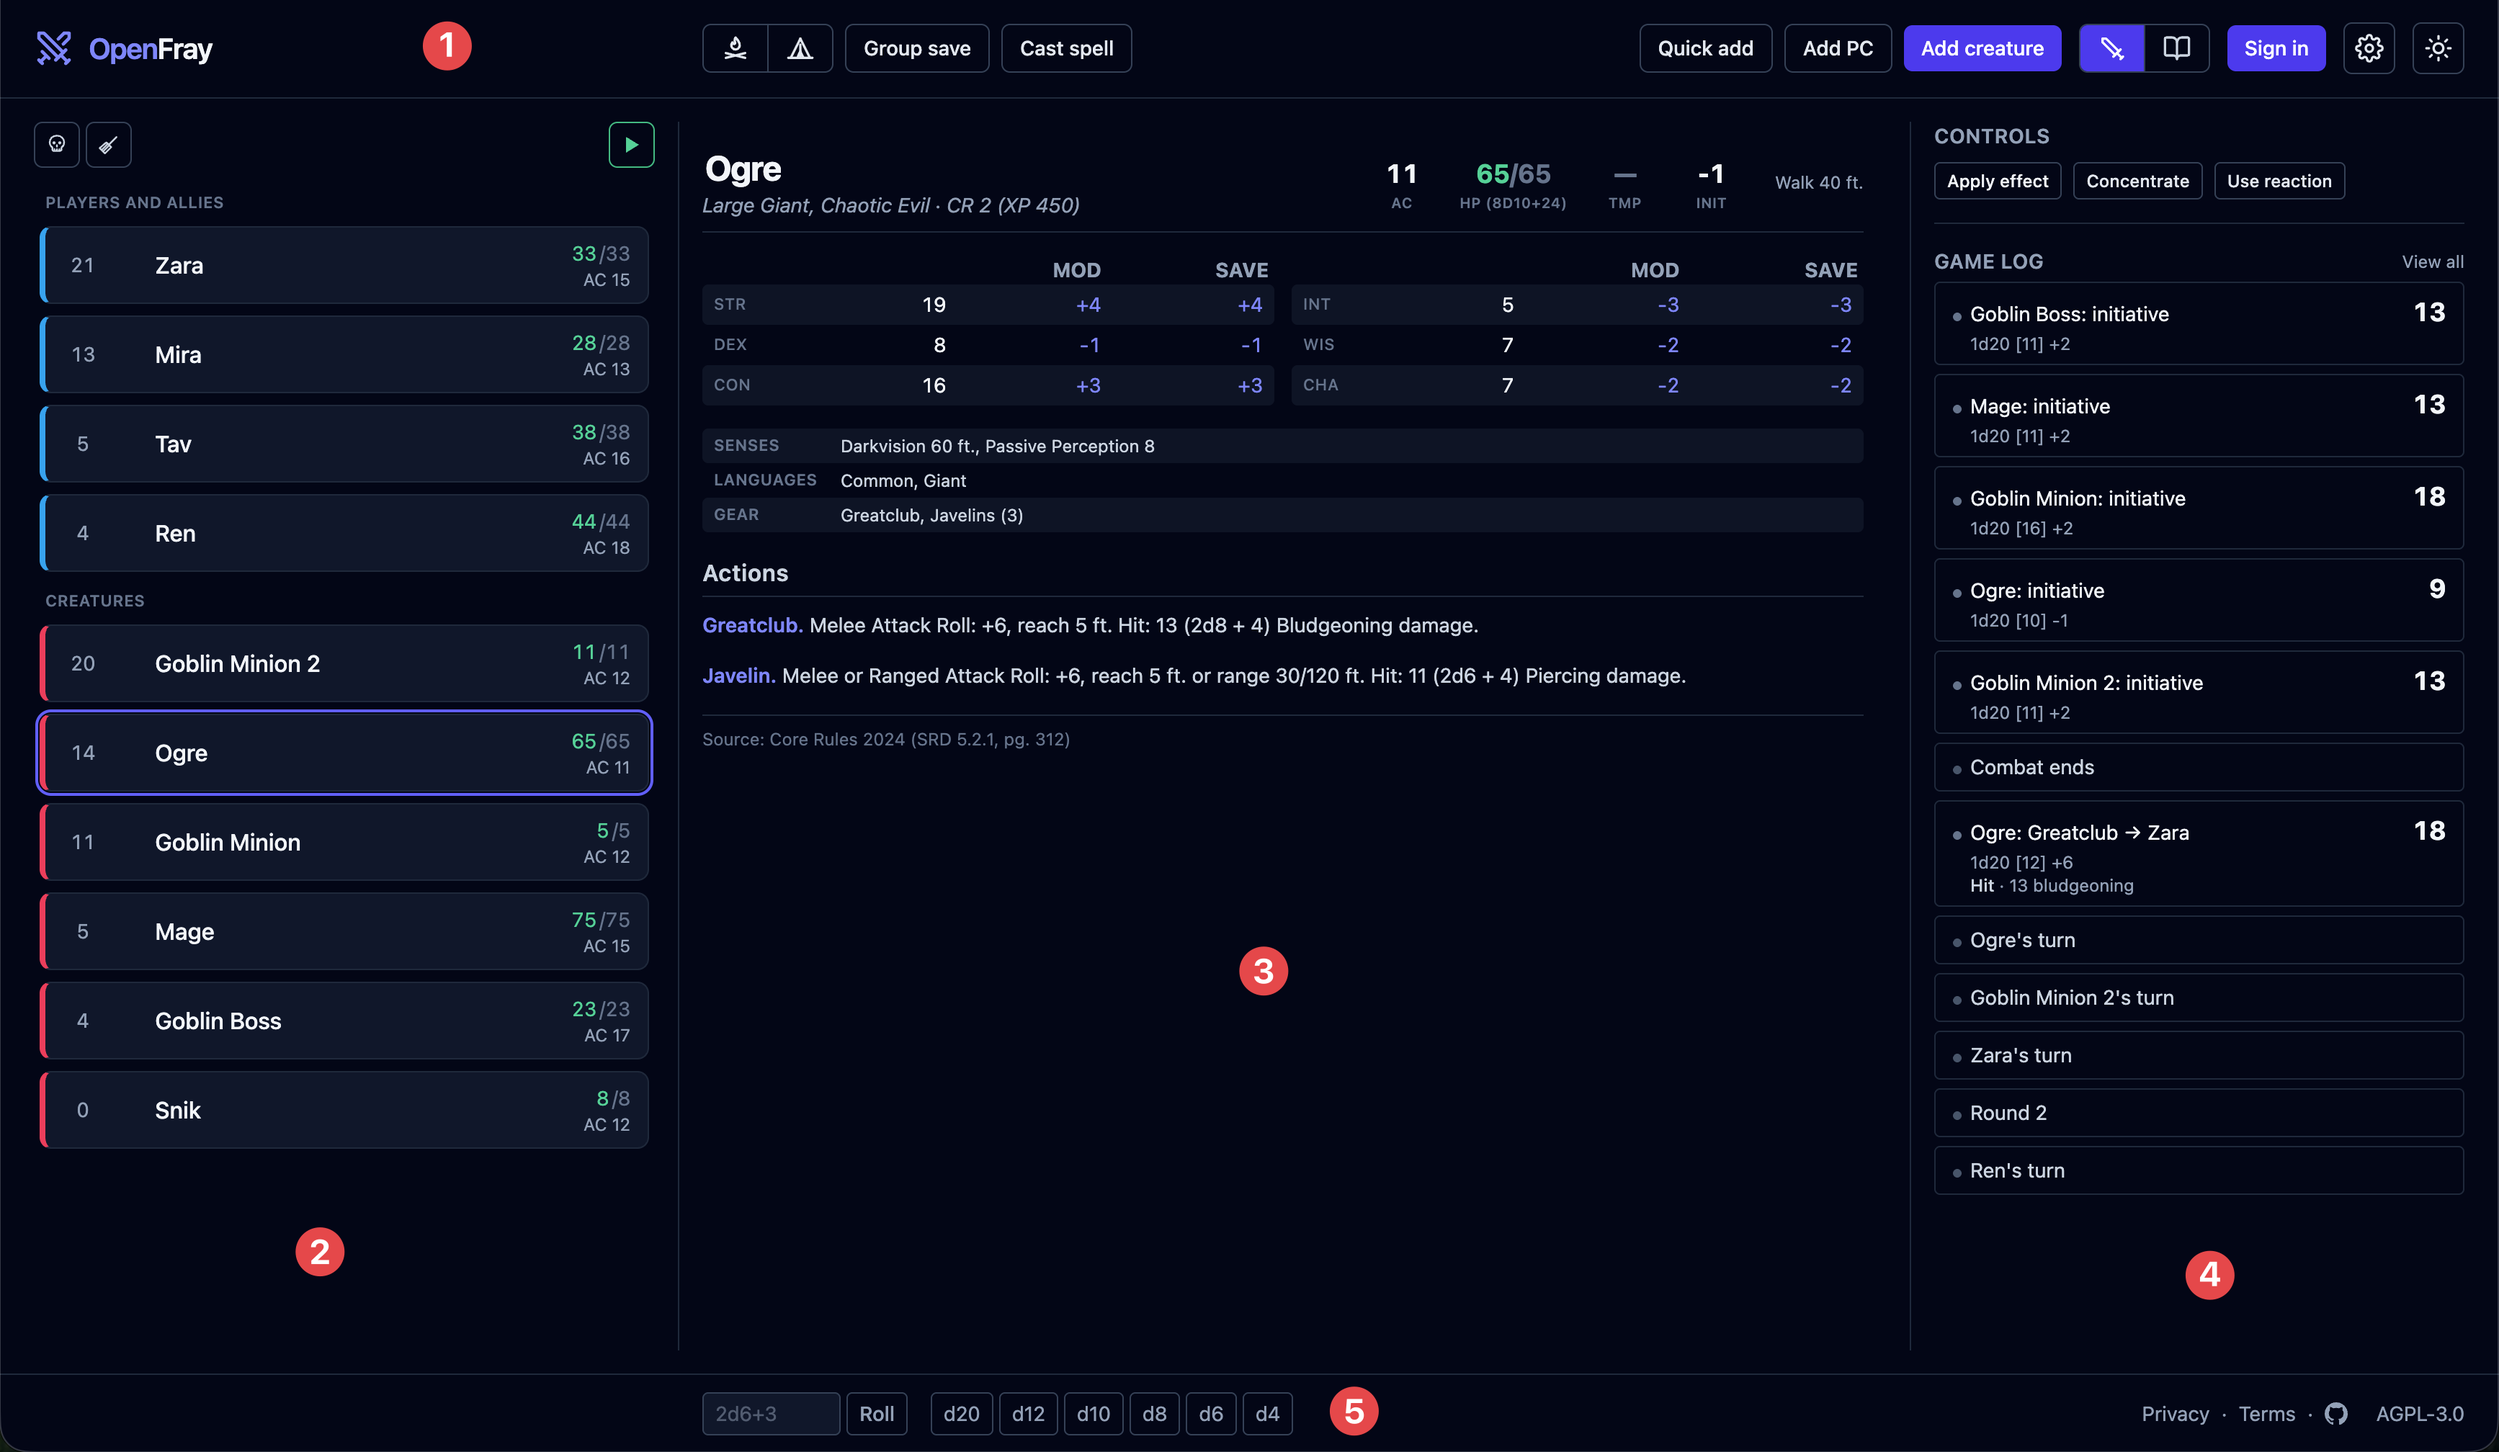
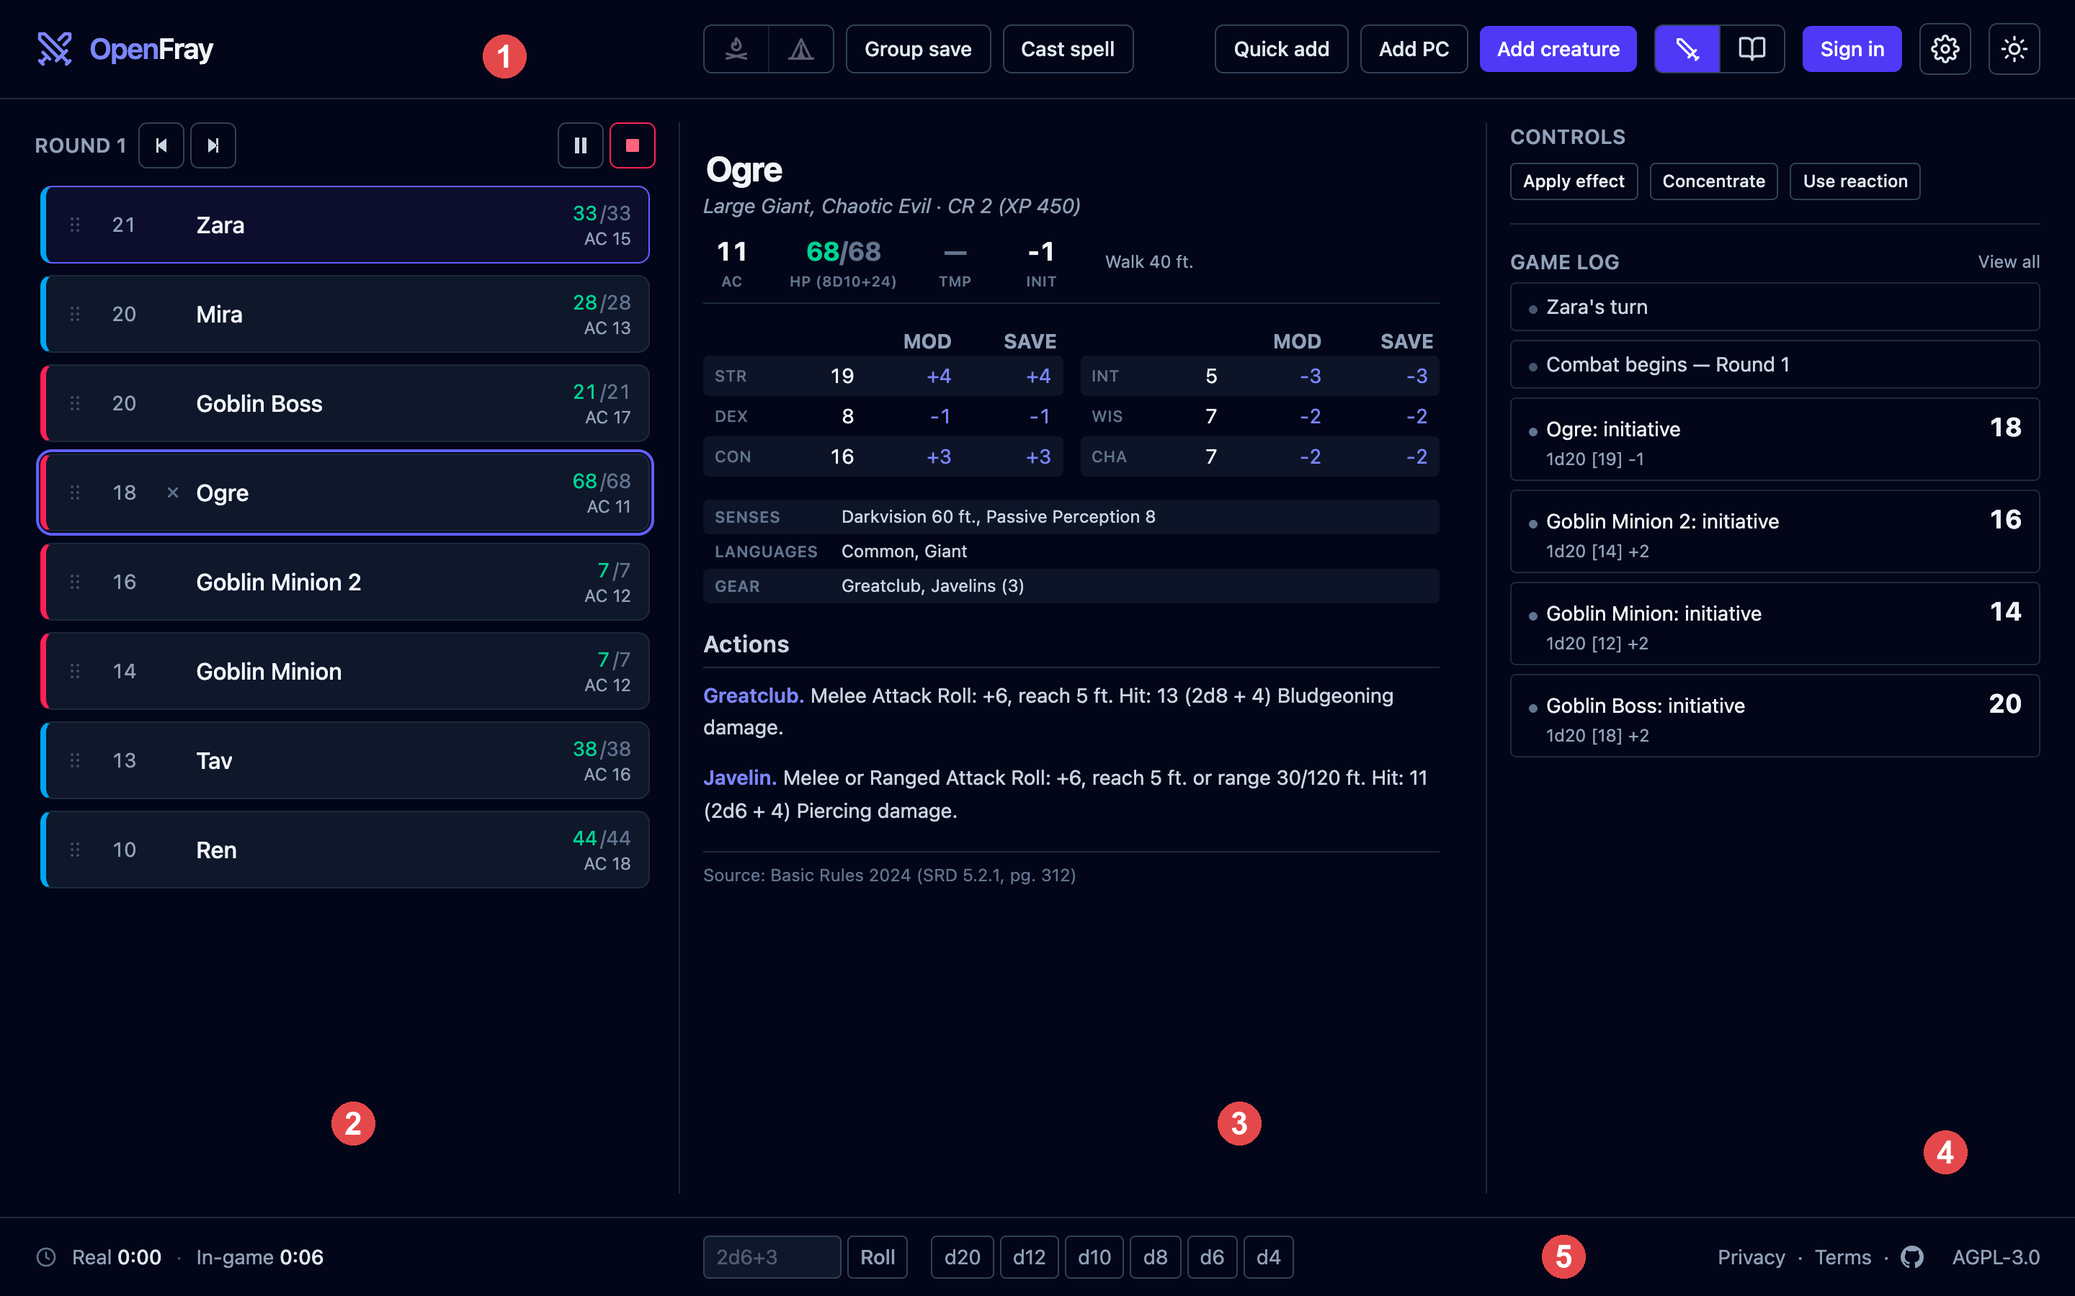
Docs: finish the screenshot sweep — no TODOs, no missing images left
Re-shot for the Core Rules → Basic Rules rename: layout (also renumbered now the
footer carries the difficulty readout) and short-rest, which had never had the
red highlight its alt text described.

New captures replacing the last TODO comments: recap (fight/recap.md),
game-log-modal (reference/game-log.md) and stat-block-full (reference/stat-block.md),
the last two of which were referenced but had never existed. stat-block-full
numbers all seven sections the page walks through.

Every `TODO screenshot` comment is gone and every referenced image now exists.

diff --git a/src/content/docs/reference/stat-block.md b/src/content/docs/reference/stat-block.md
@@ -15,9 +15,7 @@ page names each part and points out what you can click during a fight.
 Select a creature to see its stat block. The one for a player character is shorter, and is
 covered under [Creatures, players & quick adds](/docs/fight/combatants/).
 
-<!-- TODO screenshot: stat-block-full.png — a rich creature (a legendary spellcaster, e.g. an archmage or a dragon) in the compendium. Number each section: header, abilities, defenses, traits, spellcasting, actions, legendary actions. -->
-
-<!-- ![A full creature stat block with its sections outlined in red and numbered: header, abilities, defenses, traits, spellcasting, actions, and legendary actions.](../../../assets/screens/stat-block-full.png) -->
+![An Ancient Black Dragon stat block with its sections numbered one to seven, from the header down to the legendary actions.](../../../assets/screens/stat-block-full.png)
 
 ## The header
 

diff --git a/src/content/docs/reference/game-log.md b/src/content/docs/reference/game-log.md
@@ -27,9 +27,7 @@ and the damage by type.
 Click **View all** to open the full history. It's grouped by round, oldest first, so you can
 retrace the whole fight from the top.
 
-<!-- TODO screenshot: game-log-modal.png — the full history modal, grouped by round. Highlight: the category filter chips, a round grouping, Clear log. -->
-
-<!-- ![The full game log grouped by round, with the category filter chips at the top and the Clear log link outlined in red.](../../../assets/screens/game-log-modal.png) -->
+![The full game log grouped by round, with the category filter chips and the Clear log link outlined in red and labeled.](../../../assets/screens/game-log-modal.png)
 
 ### Filtering by kind
 

diff --git a/src/content/docs/fight/recap.md b/src/content/docs/fight/recap.md
@@ -23,7 +23,7 @@ The summary comes up three ways:
 A party wipe only counts once every player is dead or stable — one character still rolling
 [death saves](/docs/fight/death/) means the fight is still on.
 
-<!-- TODO screenshot: an end-of-fight summary (recap) with the outcome banner, the stat tiles, and the three awards. Optional — reuse an existing capture if one fits. -->
+![The combat recap after a victory, with tiles for experience, difficulty, rounds, timings and damage, above the three awards.](../../../assets/screens/recap.png)
 
 ## What it shows
 

diff --git a/src/content/docs/fight/rests.md b/src/content/docs/fight/rests.md
@@ -23,7 +23,7 @@ Click the **campfire**. OpenFray doesn't guess how much anyone recovers — it a
 because the players are the ones deciding. You get a list of everyone friendly, each with
 a box:
 
-![The short rest box, listing each character with a hit point field, one outlined in red.](../../../assets/screens/short-rest.png)
+![The short rest box, listing each character with a hit point field, the first outlined in red and labeled.](../../../assets/screens/short-rest.png)
 
 In each box you can:
 
